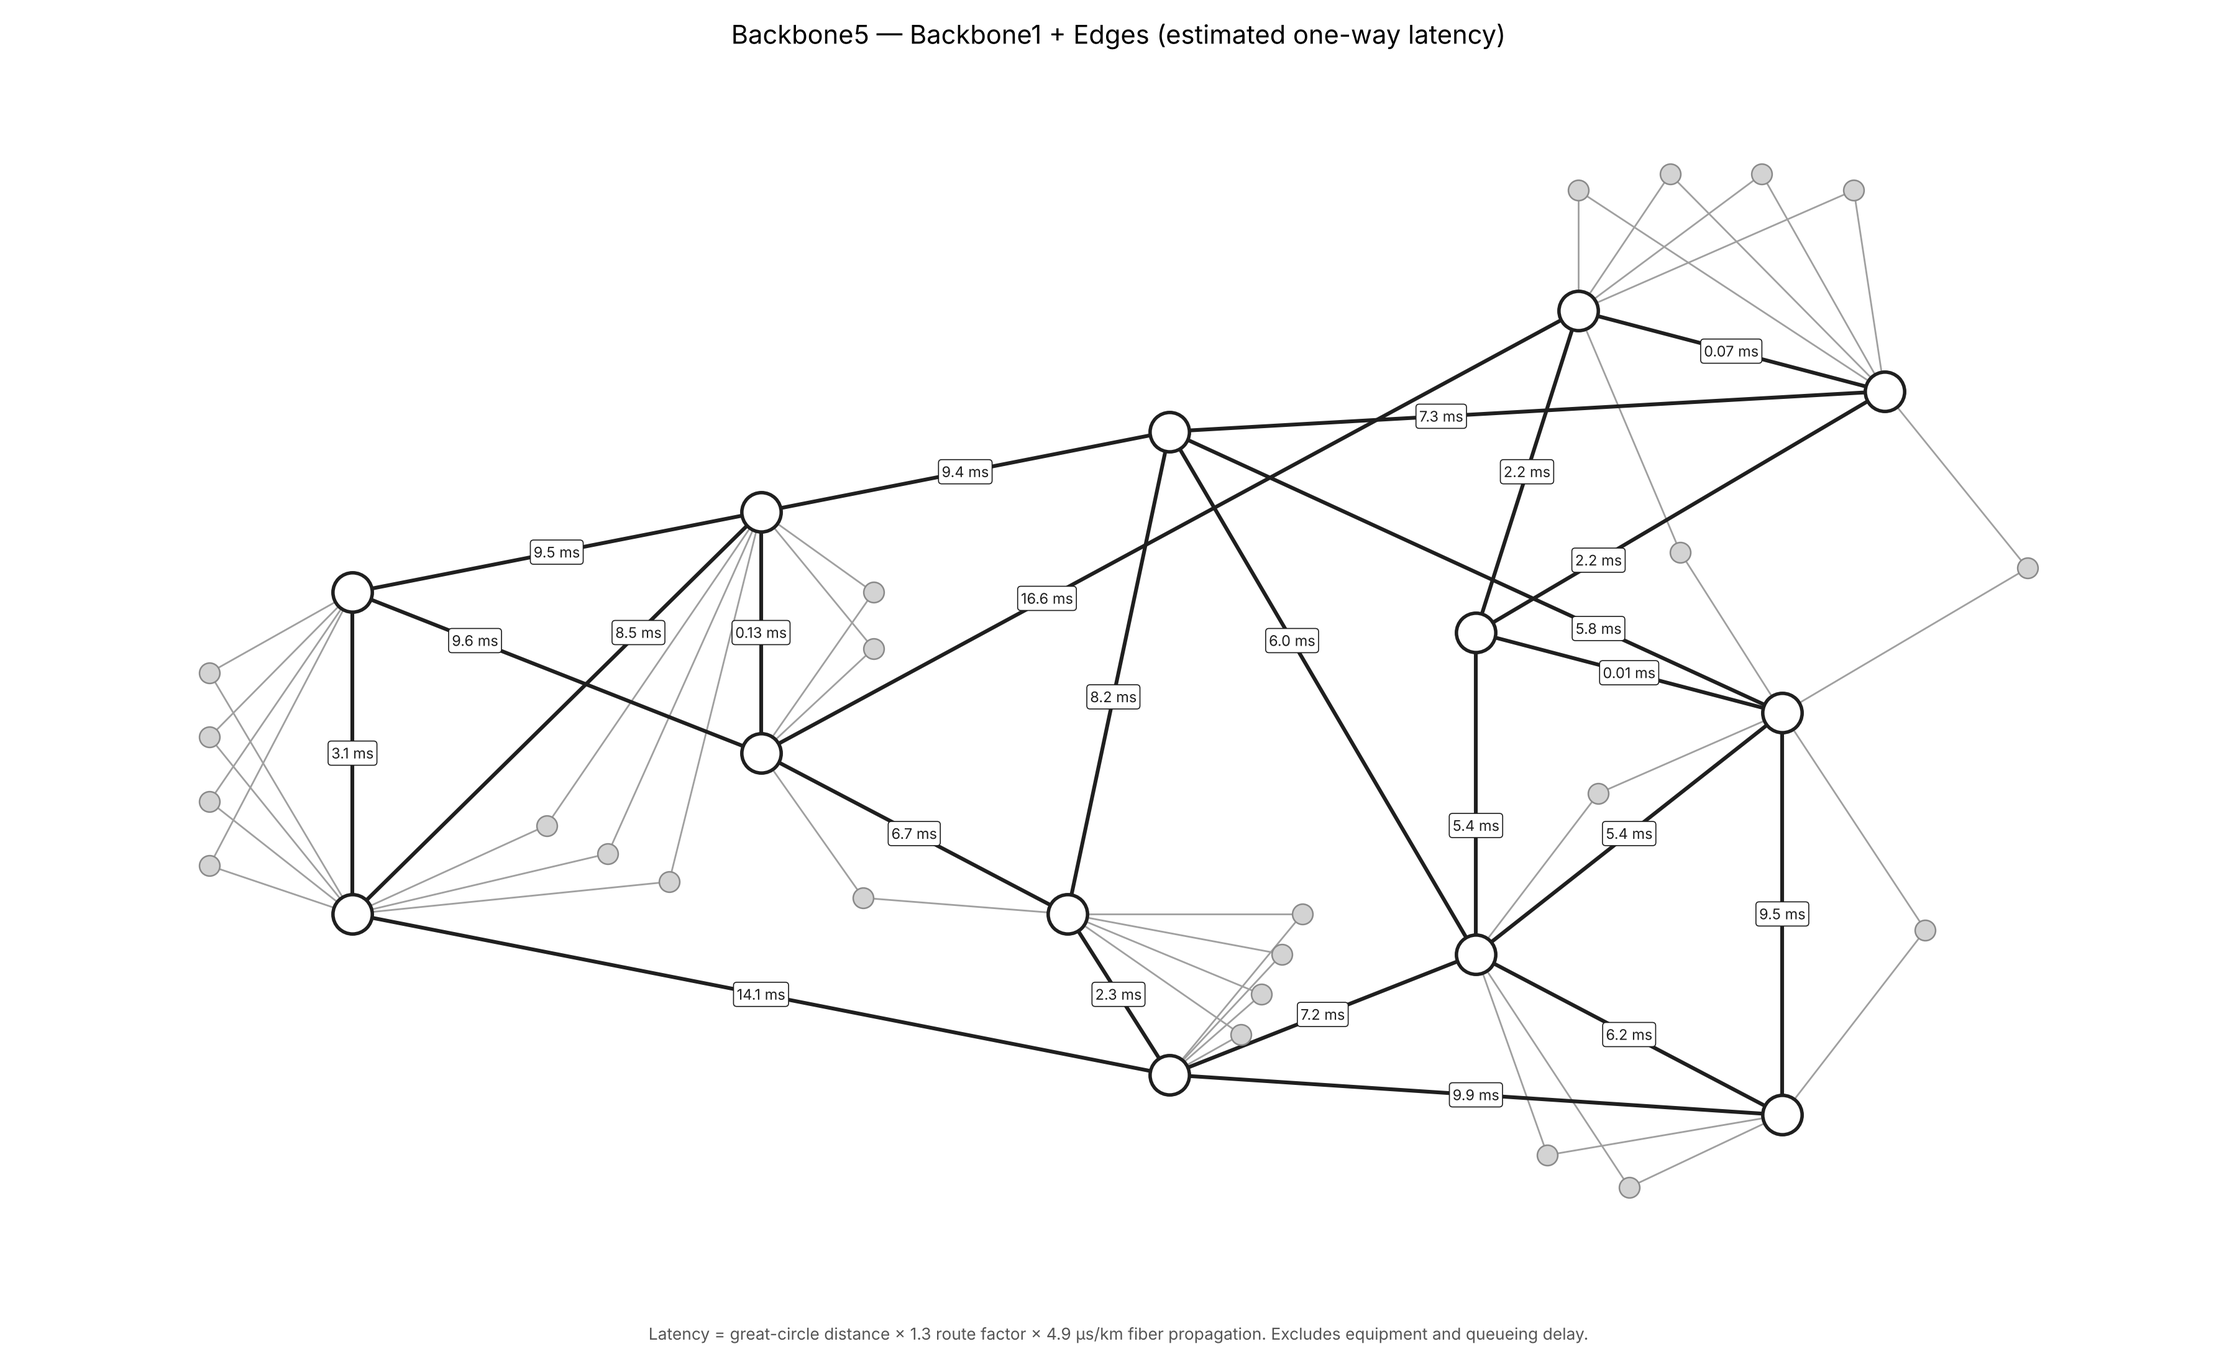
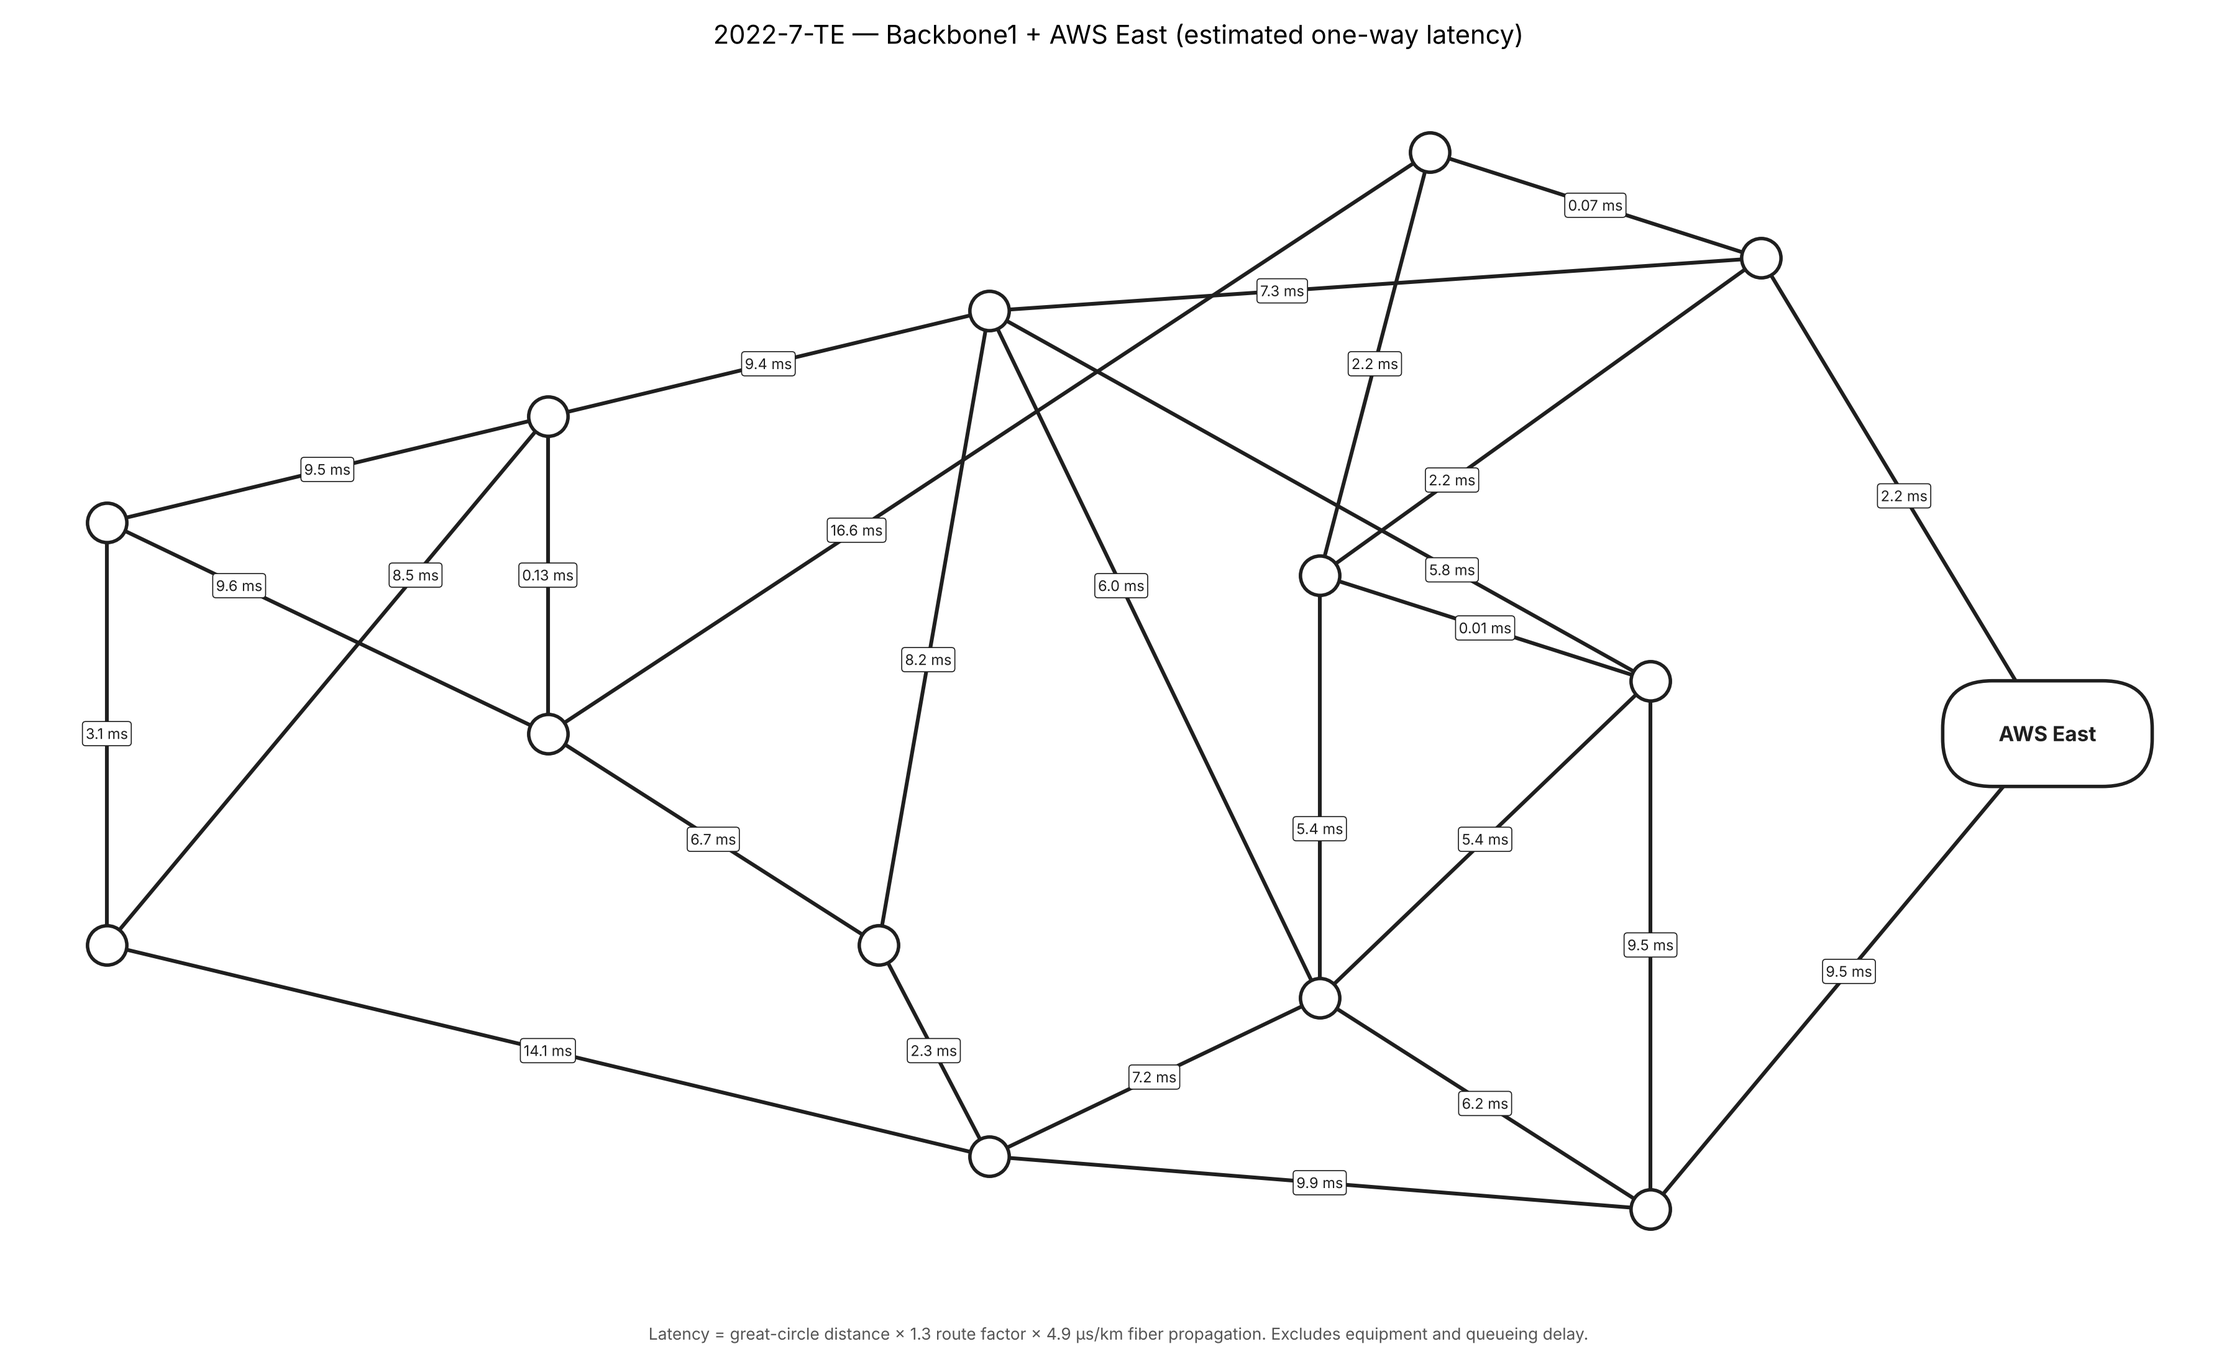
2022-7-TE: drop edge sites, add AWS East cloud on SEC1 and MIA
Claude-Session: https://claude.ai/code/session_011mjtxqb8uLpQefYmGLCZEs

diff --git a/2022-7-TE/backbone5_model.py b/2022-7-TE/backbone5_model.py
@@ -1,8 +1,9 @@
 """
-Backbone5 network model (NetworkX)
+2022-7-TE network model (NetworkX)
 
-Builds the Backbone1 core plus the Edges from the "BackboneSplit"
-sheet of Backbone-Split5.numbers. Backbone2 columns are ignored.
+Builds the Backbone1 core from the "BackboneSplit" sheet of
+Backbone-Split5.numbers, plus an AWS East cloud on-ramp homed to SEC1 and
+MIA. The Edges and Backbone2 columns are ignored.
 
 Each Backbone1 link carries an estimated one-way latency, derived from the
 site locations listed on the "Backbone1" sheet:
@@ -16,9 +17,10 @@ site locations listed on the "Backbone1" sheet:
 
 Styling
   - Backbone1 nodes : white, dark outline, no labels
-  - Edge nodes      : light grey, small, no labels
+  - AWS East        : cloud shape, labelled
   - All links       : straight lines, drawn beneath the nodes
-  - Backbone1 links : labelled with estimated latency (ms)
+  - All links       : labelled with estimated latency (ms)
+  - Every line is checked to clear every node it doesn't terminate on
 
 Usage
   pip install networkx matplotlib numbers-parser
@@ -30,6 +32,7 @@ import sys
 
 import matplotlib.pyplot as plt
 import networkx as nx
+from matplotlib.patches import FancyBboxPatch
 from numbers_parser import Document
 
 SPLIT_SHEET = "BackboneSplit"
@@ -37,14 +40,10 @@ SITE_SHEET = "Backbone1"
 
 # Column positions on the BackboneSplit sheet (0-based)
 BB1_A, BB1_Z, BB1_LINKS, BB1_BW = 0, 1, 2, 3          # Backbone1 block
-ST_A, ST_Z, ST_LINKS, ST_BW = 13, 14, 15, 16          # Edges block
 DATA_START_ROW = 2                                    # rows 0-1 are headers
 
 # Site / Location columns on the Backbone1 sheet
 SITE_COL, LOC_COL = 5, 6
-
-# Hub names on the sheet that are typos for a Backbone1 site
-HUB_ALIASES = {"ASH1": "ASH"}
 
 # Latency model
 ROUTE_FACTOR = 1.3
@@ -90,22 +89,13 @@ BACKBONE_POS = {
     "ATL": (11.0, 1.5), "MIA": (14.0, -0.5),
 }
 
-# Slots for edge nodes, keyed by the (sorted) Backbone1 hubs they home to.
-# Each group sits in open space beside its hubs so no edge line lies on
-# top of a backbone link and no two edge nodes share a position.
-EDGE_SLOTS = {
-    ("HAL1", "SEC1"): [(12.0, 11.0), (12.9, 11.2), (13.8, 11.2), (14.7, 11.0)],
-    ("LA", "SNJ"):    [(-1.4, 2.6), (-1.4, 3.4), (-1.4, 4.2), (-1.4, 5.0)],
-    ("DEN", "DRY"):   [(5.1, 5.3), (5.1, 6.0)],
-    ("DEN", "LA"):    [(1.9, 3.1), (2.5, 2.75), (3.1, 2.4)],
-    ("DAL", "DRY"):   [(5.0, 2.2)],
-    ("DAL", "HOU"):   [(8.7, 0.5), (8.9, 1.0), (9.1, 1.5), (9.3, 2.0)],
-    ("ATL", "MIA"):   [(11.7, -1.0), (12.5, -1.4)],
-    ("ASH", "ATL"):   [(12.2, 3.5)],
-    ("ASH", "MIA"):   [(15.4, 1.8)],
-    ("ASH", "HAL1"):  [(13.0, 6.5)],
-    ("ASH", "SEC1"):  [(16.4, 6.3)],
+# Cloud on-ramps: name -> (homing sites, schematic position, (lat, lon))
+# AWS East is placed at AWS us-east-1 (Ashburn, VA) for the latency estimate.
+CLOUDS = {
+    "AWS East": (("SEC1", "MIA"), (17.6, 4.0), (39.0400, -77.4900)),
 }
+CLOUD_W, CLOUD_H = 1.9, 1.0      # cloud box size in layout units
+NODE_CLEAR = 0.45                # min gap between a line and a node it skips
 
 
 def clean(v):
@@ -119,14 +109,11 @@ def load(path):
     sheets = {s.name: s for s in doc.sheets}
 
     rows = list(sheets[SPLIT_SHEET].tables[0].rows(values_only=True))
-    backbone, edge_rows = [], []
+    backbone = []
     for r in rows[DATA_START_ROW:]:
         a, z = clean(r[BB1_A]), clean(r[BB1_Z])
         if a and z:
             backbone.append((a, z, int(r[BB1_LINKS] or 1), clean(r[BB1_BW])))
-        a, z = clean(r[ST_A]), clean(r[ST_Z])
-        if a and z:
-            edge_rows.append((a, z, int(r[ST_LINKS] or 1), clean(r[ST_BW])))
 
     sites = {}
     for r in list(sheets[SITE_SHEET].tables[0].rows(values_only=True))[1:]:
@@ -134,7 +121,7 @@ def load(path):
         if site and loc:
             sites[site] = LOCATION_FIXES.get(loc, loc)
 
-    return backbone, edge_rows, sites
+    return backbone, sites
 
 
 # ---------------------------------------------------------------- latency
@@ -153,9 +140,9 @@ def latency_ms(km):
 
 # ---------------------------------------------------------------- graph
 
-def build_graph(backbone, edge_rows, sites):
+def build_graph(backbone, sites):
     G = nx.Graph()
-    dupes, offnet, aliased = [], [], []
+    dupes = []
 
     for a, z, links, bw in backbone:
         for n in (a, z):
@@ -167,62 +154,52 @@ def build_graph(backbone, edge_rows, sites):
             continue
         G.add_edge(a, z, role="backbone1", links=links, bw=bw)
 
-    # Estimated latency on each Backbone1 link
+    for name, (hubs, _, coords) in CLOUDS.items():
+        G.add_node(name, role="cloud", coords=coords)
+        for hub in hubs:
+            G.add_edge(hub, name, role="cloud")
+
+    # Estimated latency on every link
     for a, z, d in G.edges(data=True):
         ca, cz = G.nodes[a]["coords"], G.nodes[z]["coords"]
         if ca and cz:
             d["km"] = great_circle_km(ca, cz)
             d["latency_ms"] = latency_ms(d["km"])
 
-    bb_nodes = set(G.nodes)
-    for st, hub, links, bw in edge_rows:
-        if hub in HUB_ALIASES:
-            aliased.append((st, hub, HUB_ALIASES[hub]))
-            hub = HUB_ALIASES[hub]
-        if hub not in bb_nodes:              # hub is on Backbone2 only
-            offnet.append((st, hub))
-            continue
-        G.add_node(st, role="edge")
-        if G.has_edge(st, hub):
-            dupes.append((st, hub))
-            continue
-        G.add_edge(st, hub, role="edge", links=links, bw=bw)
-
-    # An edge node whose every hub is off Backbone1 never got a node; any
-    # partially-homed edge node keeps its Backbone1 links.
-    return G, dupes, offnet, aliased
+    return G, dupes
 
 
 # ---------------------------------------------------------------- layout
 
 def layout(G):
-    bb = [n for n, d in G.nodes(data=True) if d["role"] == "backbone1"]
-    pos = {n: BACKBONE_POS.get(n, (7.0, 4.0)) for n in bb}
-
-    used, unplaced = {}, []
+    pos = {}
     for n, d in G.nodes(data=True):
-        if d["role"] != "edge":
-            continue
-        key = tuple(sorted(G.neighbors(n)))
-        slots = EDGE_SLOTS.get(key, [])
-        i = used.get(key, 0)
-        if i < len(slots):
-            pos[n] = slots[i]
-            used[key] = i + 1
+        if d["role"] == "cloud":
+            pos[n] = CLOUDS[n][1]
         else:
-            unplaced.append(n)
-
-    # Edge nodes not covered by a slot (new rows on the sheet) are placed by a
-    # spring layout with everything else held fixed.
-    if unplaced:
-        for n in unplaced:
-            hubs = list(G.neighbors(n))
-            pos[n] = (sum(pos[h][0] for h in hubs) / len(hubs) + 0.5,
-                      sum(pos[h][1] for h in hubs) / len(hubs) - 0.5)
-        fixed = [n for n in pos if n not in unplaced]
-        pos = nx.spring_layout(G, pos=pos, fixed=fixed, k=0.8,
-                               iterations=200, seed=7)
+            pos[n] = BACKBONE_POS.get(n, (7.0, 4.0))
     return pos
+
+
+def seg_point_dist(p, a, b):
+    (px, py), (ax, ay), (bx, by) = p, a, b
+    dx, dy = bx - ax, by - ay
+    t = max(0, min(1, ((px - ax) * dx + (py - ay) * dy) / (dx * dx + dy * dy)))
+    return math.hypot(px - (ax + t * dx), py - (ay + t * dy))
+
+
+def check_visibility(G, pos):
+    """Every line must clear every node it doesn't terminate on."""
+    problems = []
+    for u, v in G.edges():
+        for n in G.nodes:
+            if n in (u, v):
+                continue
+            clear = NODE_CLEAR + (CLOUD_H / 2 if G.nodes[n]["role"] == "cloud" else 0)
+            d = seg_point_dist(pos[n], pos[u], pos[v])
+            if d < clear:
+                problems.append(f"{u}-{v} passes {d:.2f} from {n}")
+    return problems
 
 
 # Where along each backbone link to place its latency label (0.5 = middle).
@@ -244,28 +221,31 @@ def fmt_ms(ms):
 
 def draw(G, pos, out):
     bb = [n for n, d in G.nodes(data=True) if d["role"] == "backbone1"]
-    st = [n for n, d in G.nodes(data=True) if d["role"] == "edge"]
-    bb_edges = [(u, v) for u, v, d in G.edges(data=True) if d["role"] == "backbone1"]
-    st_edges = [(u, v) for u, v, d in G.edges(data=True) if d["role"] == "edge"]
+    clouds = [n for n, d in G.nodes(data=True) if d["role"] == "cloud"]
 
     fig, ax = plt.subplots(figsize=(18, 11))
     fig.patch.set_facecolor("white")
 
     # Straight lines, beneath the nodes
-    nx.draw_networkx_edges(G, pos, edgelist=st_edges, ax=ax,
-                           edge_color="#a0a0a0", width=1.0, arrows=False)
-    nx.draw_networkx_edges(G, pos, edgelist=bb_edges, ax=ax,
+    nx.draw_networkx_edges(G, pos, edgelist=list(G.edges()), ax=ax,
                            edge_color="#1f1f1f", width=2.2, arrows=False)
 
-    nx.draw_networkx_nodes(G, pos, nodelist=st, ax=ax, node_size=140,
-                           node_color="#d3d3d3", edgecolors="#8a8a8a",
-                           linewidths=0.9)
     nx.draw_networkx_nodes(G, pos, nodelist=bb, ax=ax, node_size=520,
                            node_color="white", edgecolors="#1f1f1f",
                            linewidths=2.0)
 
-    # Latency labels on Backbone1 links (no node labels)
-    for u, v in bb_edges:
+    # Clouds: rounded box with the cloud name
+    for n in clouds:
+        x, y = pos[n]
+        ax.add_patch(FancyBboxPatch(
+            (x - CLOUD_W / 2, y - CLOUD_H / 2), CLOUD_W, CLOUD_H,
+            boxstyle="round,pad=0,rounding_size=0.45", fc="white",
+            ec="#1f1f1f", lw=2.0, zorder=4))
+        ax.text(x, y, n, ha="center", va="center", fontsize=12,
+                fontweight="bold", color="#1f1f1f", zorder=5)
+
+    # Latency labels on every link (no backbone node labels)
+    for u, v in G.edges():
         ms = G.edges[u, v].get("latency_ms")
         if ms is None:
             continue
@@ -279,7 +259,7 @@ def draw(G, pos, out):
                 bbox=dict(boxstyle="round,pad=0.22", fc="white",
                           ec="#1f1f1f", lw=0.6))
 
-    ax.set_title("Backbone5 — Backbone1 + Edges "
+    ax.set_title("2022-7-TE — Backbone1 + AWS East "
                  "(estimated one-way latency)", fontsize=15, pad=14)
     fig.text(0.5, 0.02,
              f"Latency = great-circle distance × {ROUTE_FACTOR} route factor × "
@@ -287,7 +267,10 @@ def draw(G, pos, out):
              "Excludes equipment and queueing delay.",
              ha="center", fontsize=9.5, color="#555555")
     ax.axis("off")
-    ax.margins(0.05)
+    xs = [p[0] for p in pos.values()]
+    ys = [p[1] for p in pos.values()]
+    ax.set_xlim(min(xs) - 0.8, max(xs) + CLOUD_W / 2 + 0.6)
+    ax.set_ylim(min(ys) - 0.8, max(ys) + 0.8)
     plt.tight_layout(rect=(0, 0.04, 1, 1))
     plt.savefig(out, dpi=200, facecolor="white")
     print(f"Saved {out}")
@@ -299,31 +282,29 @@ def main():
     src = sys.argv[1] if len(sys.argv) > 1 else "Backbone-Split5.numbers"
     out = sys.argv[2] if len(sys.argv) > 2 else "backbone5_model.png"
 
-    backbone, edge_rows, sites = load(src)
-    G, dupes, offnet, aliased = build_graph(backbone, edge_rows, sites)
+    backbone, sites = load(src)
+    G, dupes = build_graph(backbone, sites)
 
     bb = [n for n, d in G.nodes(data=True) if d["role"] == "backbone1"]
-    st = [n for n, d in G.nodes(data=True) if d["role"] == "edge"]
+    clouds = [n for n, d in G.nodes(data=True) if d["role"] == "cloud"]
     n_bb = sum(1 for *_, d in G.edges(data=True) if d["role"] == "backbone1")
-    print(f"Backbone1 nodes: {len(bb)}   Edge nodes: {len(st)}")
-    print(f"Backbone1 links: {n_bb}   Edge links: {G.number_of_edges() - n_bb}")
+    print(f"Backbone1 nodes: {len(bb)}   Clouds: {', '.join(clouds)}")
+    print(f"Backbone1 links: {n_bb}   Cloud links: {G.number_of_edges() - n_bb}")
     print(f"Connected: {nx.is_connected(G)}")
+    core = nx.Graph(G.subgraph(bb))
+    print(f"Backbone articulation points: {list(nx.articulation_points(core)) or 'none'}")
     if dupes:
         print("Duplicate rows skipped:", ", ".join(f"{a}-{z}" for a, z in dupes))
-    if offnet:
-        print("Edges skipped (hub not on Backbone1):",
-              ", ".join(f"{a}-{z}" for a, z in offnet))
-    for s, old, new in aliased:
-        print(f"Hub renamed: {s}-{old} treated as {s}-{new}")
 
-    print("\nBackbone1 link latency (one-way, estimated)")
-    rows = sorted(((u, v, d) for u, v, d in G.edges(data=True)
-                   if d["role"] == "backbone1"),
-                  key=lambda e: -e[2].get("latency_ms", 0))
+    print("\nLink latency (one-way, estimated)")
+    rows = sorted(G.edges(data=True), key=lambda e: -e[2].get("latency_ms", 0))
     for u, v, d in rows:
-        print(f"  {u:>4} - {v:<4} {d['km']:7.0f} km  {d['latency_ms']:6.2f} ms")
+        print(f"  {u:>8} - {v:<8} {d['km']:7.0f} km  {d['latency_ms']:6.2f} ms")
 
-    draw(G, layout(G), out)
+    pos = layout(G)
+    bad = check_visibility(G, pos)
+    print("\nLine visibility:", "all clear" if not bad else "; ".join(bad))
+    draw(G, pos, out)
 
 
 if __name__ == "__main__":

diff --git a/2022-7-TE/README.md b/2022-7-TE/README.md
@@ -1,39 +1,44 @@
-# Backbone5 — Backbone1 + Edges
+# 2022-7-TE — Backbone1 + AWS East
 
-NetworkX model of the Backbone1 core and its edges, built from the
-`BackboneSplit` sheet of `Backbone-Split5.numbers`. Backbone2 is not included.
+NetworkX model of the Backbone1 core, built from the `BackboneSplit` sheet of
+`Backbone-Split5.numbers`, with an AWS East cloud on-ramp homed to SEC1 and
+MIA. Started as a copy of `network-graphs/backbone5`; the Edge sites and
+Backbone2 are not included.
 
-![Backbone5 model](backbone5_model.png)
+![2022-7-TE model](backbone5_model.png)
 
 ## What it shows
 
 | Element | Style |
 |---|---|
-| Backbone1 sites (13) | White nodes, dark outline |
-| Edge sites (24) | Light grey, small nodes |
-| Backbone1 links (24) | Dark straight lines, labelled with estimated one-way latency |
-| Edge links (48) | Grey straight lines |
+| Backbone1 sites (13) | White nodes, dark outline, unlabelled |
+| AWS East | Rounded cloud box, labelled |
+| Backbone1 links (24) | Straight lines, labelled with estimated one-way latency |
+| AWS East links (2) | SEC1–AWS East and MIA–AWS East, straight lines, labelled with latency |
 
-Nodes are intentionally unlabelled.
+Every run checks that each line clears every node it doesn't terminate on
+(`Line visibility: all clear`).
 
 ## Latency estimate
-
-Each Backbone1 link is labelled with an estimated one-way propagation delay,
-derived from the site locations on the `Backbone1` sheet:
 
 ```
 latency_ms = great_circle_km × 1.3 (route factor) × 4.9 µs/km (fiber) / 1000
 ```
 
-This covers fiber propagation only — equipment, queueing and serialization
-delay are excluded. `ROUTE_FACTOR` and `FIBER_US_PER_KM` are set at the top of
-the script.
+Fiber propagation only; equipment, queueing and serialization delay are
+excluded. AWS East is placed at AWS us-east-1 (Ashburn, VA) for the estimate:
+SEC1–AWS East is about 2.2 ms and MIA–AWS East about 9.5 ms.
+
+## Editing
+
+- `BACKBONE_POS`: schematic positions of the Backbone1 sites
+- `CLOUDS`: cloud on-ramps (homing sites, position, coordinates)
+- `LABEL_POS`: per-link latency label positions
+- `ROUTE_FACTOR`, `FIBER_US_PER_KM`: latency model
 
 ## Data handling
 
 - Duplicate rows on the sheet (DRT–HAL1, CHI–ATL) are drawn once.
-- `ASH1` in the Edges is treated as `ASH`.
-- MXC is excluded: both of its links home to Backbone2-only sites (TC, DRT2).
 - The Location cells "SEC1aucus NJ" and "HAL1sey NJ" are read as Secaucus and
   Halsey (Newark).
 
@@ -43,6 +48,3 @@ the script.
 pip install networkx matplotlib numbers-parser
 python backbone5_model.py Backbone-Split5.numbers backbone5_model.png
 ```
-
-The script prints node and link counts, any rows it skipped or renamed, and a
-table of every Backbone1 link with its distance and latency.
